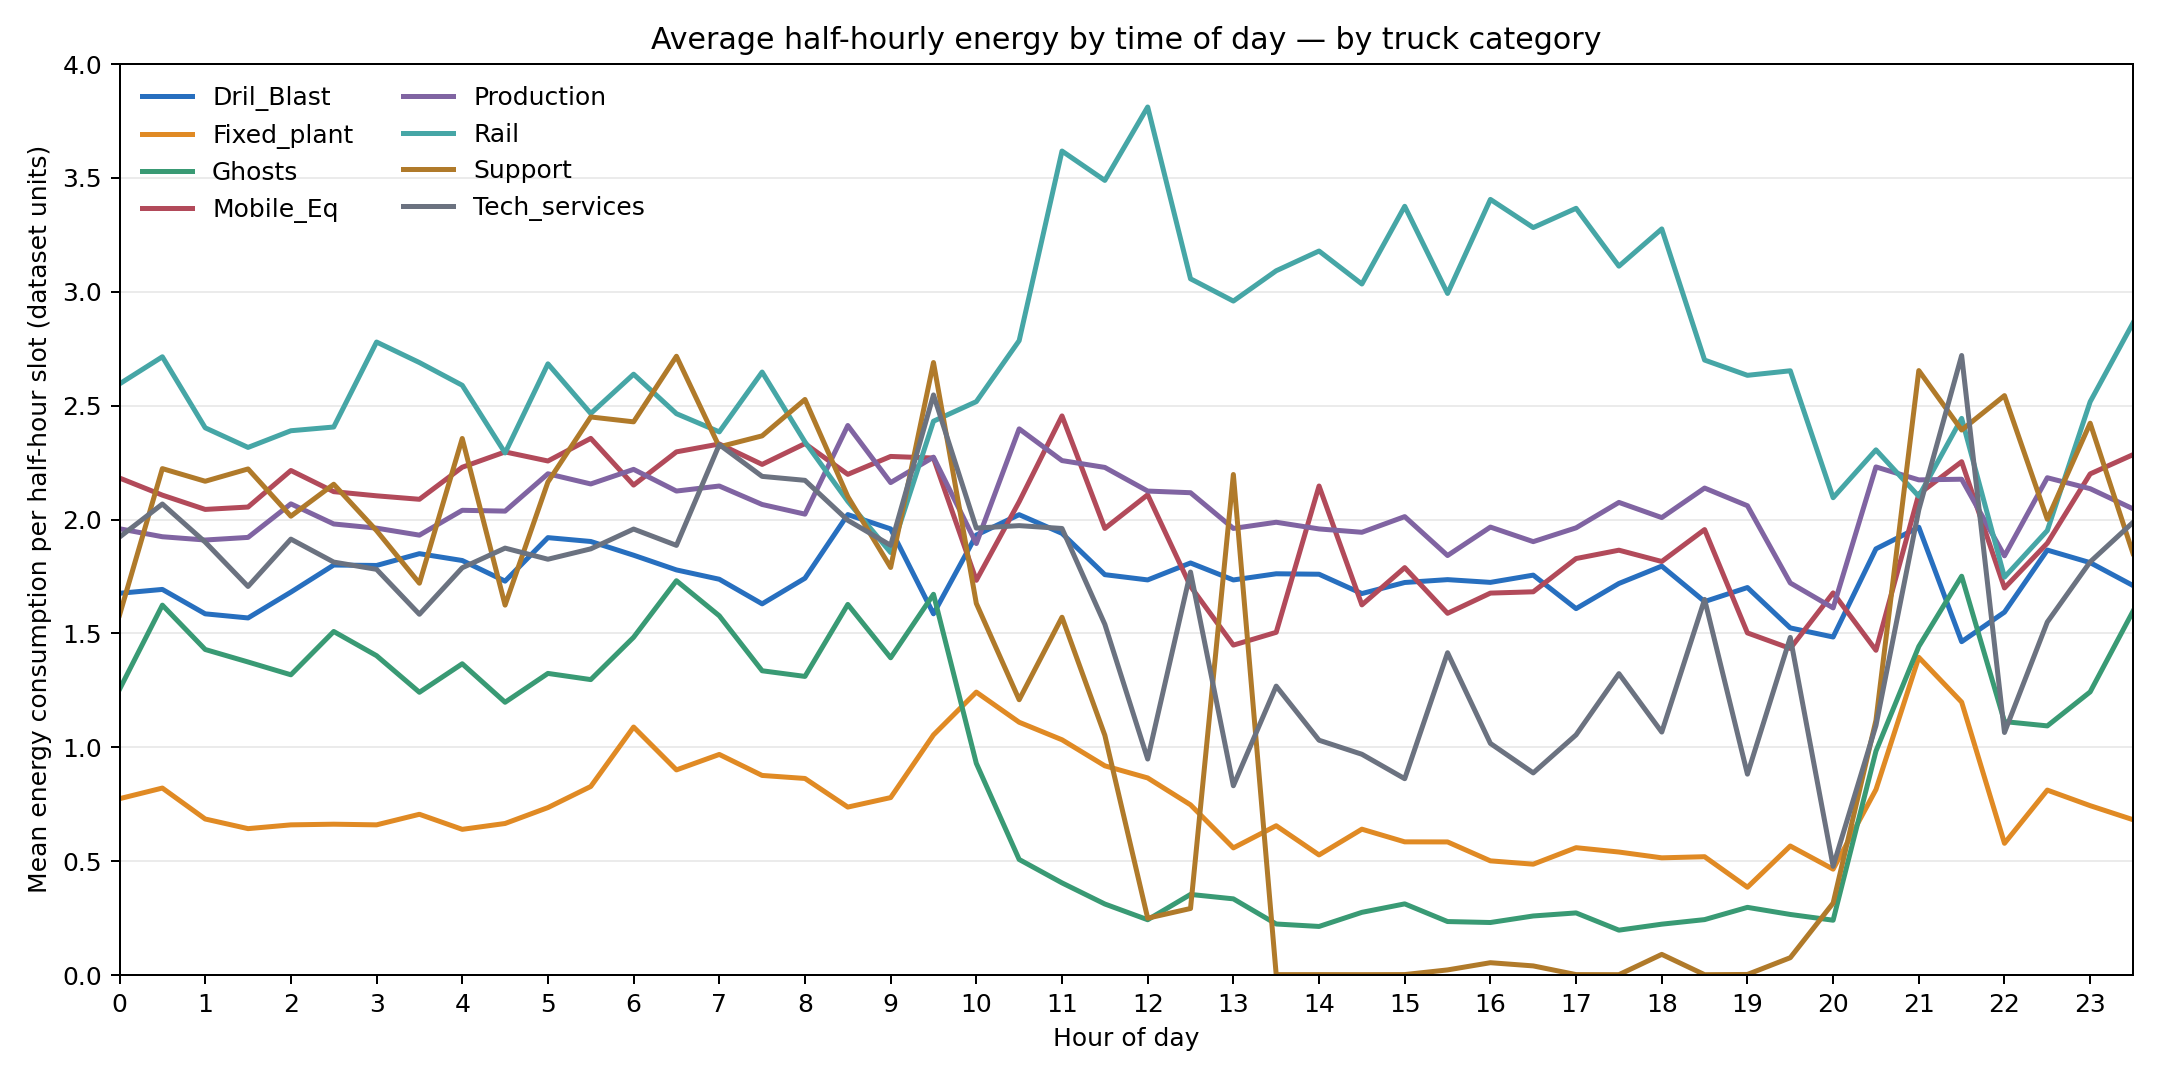
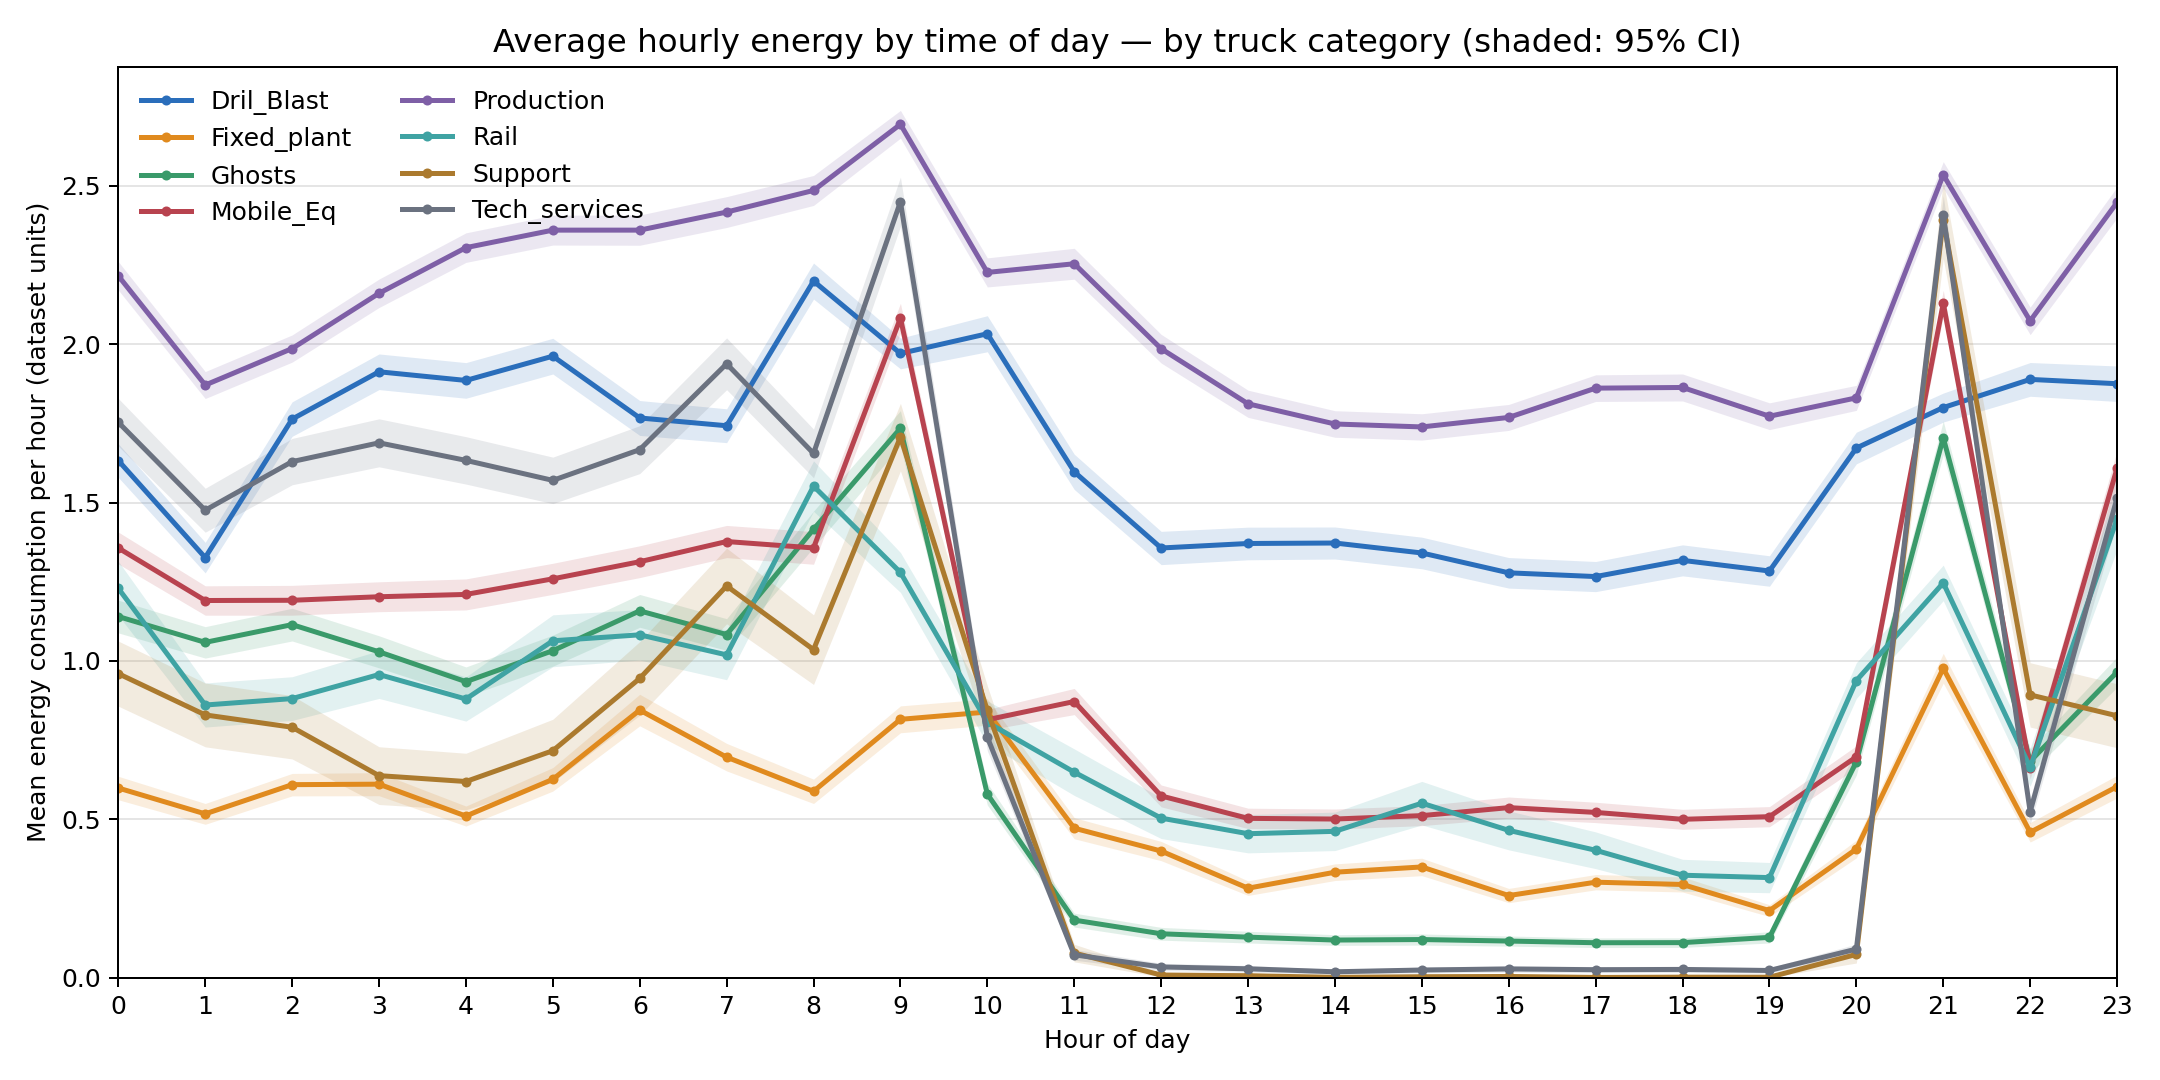
Switch time-of-day energy plots to hourly with zero-filled slots
Aggregate half-hour slots into hourly energy per truck-day, treat missing
slots as zero consumption, and show 95% CI bands. Adds the generating script.

diff --git a/energy_uncertainty/plot_hourly_energy_by_time_of_day.py b/energy_uncertainty/plot_hourly_energy_by_time_of_day.py
@@ -1,0 +1,89 @@
+"""Hourly average energy by time of day (all trucks, and per truck category).
+
+The raw data has 48 half-hour slots per day (column ``hour`` = 0..47).
+Two consecutive slots are summed per truck/month/day to get hourly energy,
+then averaged across all truck-hours, with a 95% confidence interval
+(mean +/- 1.96 * standard error).
+"""
+from pathlib import Path
+
+import matplotlib.pyplot as plt
+import numpy as np
+import pandas as pd
+
+HERE = Path(__file__).resolve().parent
+DATA = HERE / "all_trucks_energy_consumption_data_with_category.csv"
+
+COLORS = {
+    "Dril_Blast": "#2a6ebb", "Fixed_plant": "#e08a1e", "Ghosts": "#3a9a6a",
+    "Mobile_Eq": "#b8434f", "Production": "#7e5fa6", "Rail": "#3fa3a3",
+    "Support": "#ab7a2e", "Tech_services": "#6b7280",
+}
+
+
+def load_hourly() -> pd.DataFrame:
+    """One row per (truck, active day, hour of day) with hourly energy.
+
+    The CSV only contains slots where energy was recorded, so a missing
+    half-hour slot means zero consumption. Every active truck-day gets all
+    24 hours, with absent hours filled with 0, so the average is not biased
+    by how many slots happen to be present at each time of day.
+    """
+    df = pd.read_csv(DATA, dtype={"month": str})
+    df["hour_of_day"] = df["hour"] // 2
+    day_keys = ["TruckId", "truck_category", "month", "day"]
+    wide = (
+        df.groupby(day_keys + ["hour_of_day"])["energy_consumption"].sum()
+        .unstack("hour_of_day")
+        .reindex(columns=range(24))
+        .fillna(0.0)
+    )
+    return wide.stack().rename("energy_consumption").reset_index()
+
+
+def summarize(hourly: pd.DataFrame, by: list[str]) -> pd.DataFrame:
+    g = hourly.groupby(by)["energy_consumption"].agg(["mean", "std", "count"]).reset_index()
+    half = 1.96 * g["std"] / np.sqrt(g["count"])
+    g["lo"], g["hi"] = g["mean"] - half, g["mean"] + half
+    return g
+
+
+def style(ax, title):
+    ax.set_title(title, fontsize=13)
+    ax.set_xlabel("Hour of day")
+    ax.set_ylabel("Mean energy consumption per hour (dataset units)")
+    ax.set_xticks(range(24))
+    ax.set_xlim(0, 23)
+    ax.set_ylim(bottom=0)
+    ax.grid(axis="y", color="#e5e5e5")
+    ax.set_axisbelow(True)
+
+
+def main():
+    hourly = load_hourly()
+
+    s = summarize(hourly, ["hour_of_day"])
+    fig, ax = plt.subplots(figsize=(12, 6), dpi=180)
+    ax.fill_between(s["hour_of_day"], s["lo"], s["hi"], color="#2a6ebb", alpha=0.2, lw=0, label="95% CI")
+    ax.plot(s["hour_of_day"], s["mean"], color="#2a6ebb", lw=2, marker="o", ms=4, label="All trucks")
+    style(ax, "Average hourly energy by time of day — all trucks")
+    ax.legend(frameon=False, loc="upper left")
+    fig.tight_layout()
+    fig.savefig(HERE / "all_trucks_average_energy_by_time_of_day_ci.png")
+    plt.close(fig)
+
+    s = summarize(hourly, ["truck_category", "hour_of_day"])
+    fig, ax = plt.subplots(figsize=(12, 6), dpi=180)
+    for cat, d in s.groupby("truck_category"):
+        c = COLORS.get(cat)
+        ax.fill_between(d["hour_of_day"], d["lo"], d["hi"], color=c, alpha=0.15, lw=0)
+        ax.plot(d["hour_of_day"], d["mean"], color=c, lw=2, marker="o", ms=3, label=cat)
+    style(ax, "Average hourly energy by time of day — by truck category (shaded: 95% CI)")
+    ax.legend(frameon=False, loc="upper left", ncol=2)
+    fig.tight_layout()
+    fig.savefig(HERE / "truck_category_average_energy_by_time_of_day_ci.png")
+    plt.close(fig)
+
+
+if __name__ == "__main__":
+    main()
